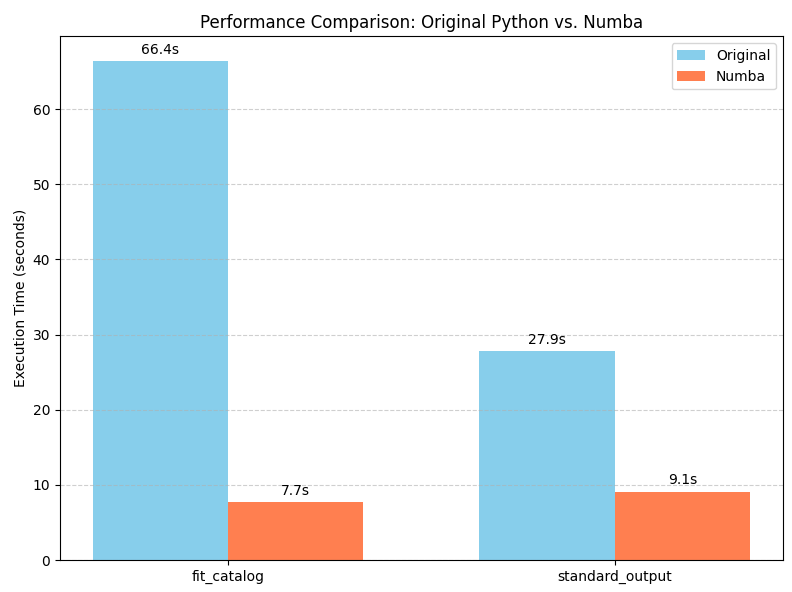
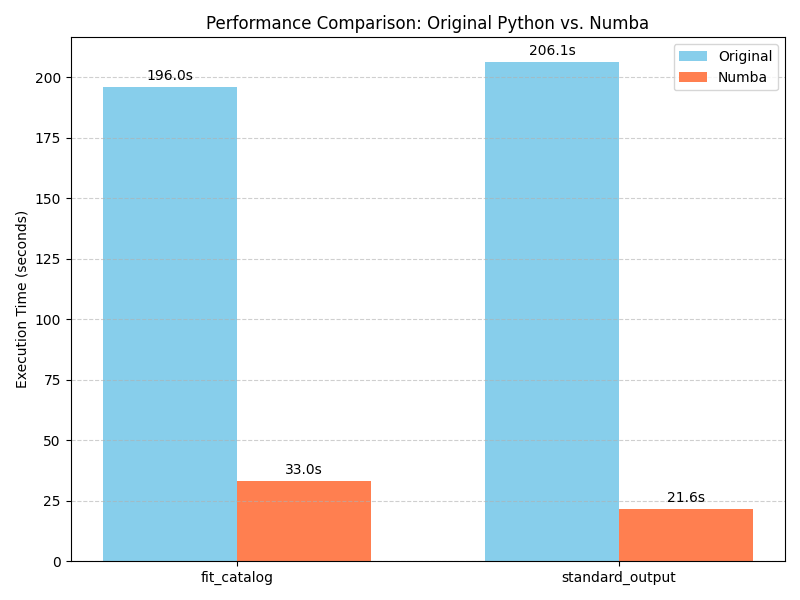
Improved speed for SPS parameters

Changed region(s): [[0.0, 0.0304, 1.0, 1.0], [0.7576, 0.7297, 0.7879, 0.7601], [0.7576, 0.6689, 0.7879, 0.6993]]

diff --git a/eazy/numba_utils.py b/eazy/numba_utils.py
@@ -252,6 +252,337 @@ def template_lsq_numba_covar(
             
     return chi2_i, coeffs_i, fmodel, covar
 
+'''
+@numba.njit(cache=True, fastmath=True)
+def template_lsq_numba_covar(
+    fnu_i: NDArray,
+    efnu_i: NDArray,
+    Ain: NDArray,
+    TEFz: NDArray,
+    zp: NDArray,
+    renorm_t: bool,
+    hess_threshold: float,
+) -> Tuple[float, NDArray, NDArray, NDArray]:
+    """
+    Numba implementation of template_lsq that also returns the correctly scaled
+    covariance matrix.
+    """
+    NTEMP, NFILT = Ain.shape
+    MIN_VALID_FILTERS = 1
+
+    ok_band = (efnu_i / zp > 0) & np.isfinite(fnu_i) & np.isfinite(efnu_i)
+    
+    empty_coeffs = np.zeros(NTEMP, dtype=fnu_i.dtype)
+    empty_covar = np.full((NTEMP, NTEMP), np.nan, dtype=np.float64)
+
+    if np.sum(ok_band) < MIN_VALID_FILTERS:
+        fmodel = np.dot(empty_coeffs, Ain)
+        return np.inf, empty_coeffs, fmodel, empty_covar
+
+    var = efnu_i**2 + (TEFz * np.maximum(fnu_i, 0.0))**2
+    rms = np.sqrt(var)
+    A_ok = Ain[:, ok_band]
+    rms_ok = rms[ok_band]
+    
+    Anorm = np.ones(NTEMP, dtype=fnu_i.dtype)
+    if renorm_t:
+        for i in range(NTEMP):
+            norm_val = np.sqrt(np.sum((A_ok[i, :] / rms_ok)**2))
+            if norm_val > 0:
+                Anorm[i] = norm_val
+
+    A = np.zeros_like(Ain)
+    for i in range(NTEMP):
+        A[i, :] = Ain[i, :] / Anorm[i]
+
+    ok_temp = Anorm > 0
+    if np.sum(ok_temp) == 0:
+        fmodel = np.dot(empty_coeffs, Ain)
+        return np.inf, empty_coeffs, fmodel, empty_covar
+
+    Ax = np.zeros((np.sum(ok_band), NTEMP), dtype=fnu_i.dtype)
+    for i in range(NTEMP):
+        Ax[:, i] = A[i, ok_band] / rms_ok
+        
+    if hess_threshold < 1.0:
+        Hess = np.dot(Ax.T, Ax)
+        temp_indices = np.where(ok_temp)[0]
+        for i_idx, i in enumerate(temp_indices):
+            if not ok_temp[i]: continue
+            for j in temp_indices[i_idx + 1:]:
+                if Hess[i, j] > hess_threshold: ok_temp[j] = False
+
+    active_temps = np.sum(ok_temp)
+    if active_temps == 0:
+        fmodel = np.dot(empty_coeffs, Ain)
+        return np.inf, empty_coeffs, fmodel, empty_covar
+        
+    Ax_fit = np.ascontiguousarray(Ax[:, ok_temp])
+    b = fnu_i[ok_band] / rms_ok
+    coeffs_x, _ = _nnls_numba(Ax_fit.astype(np.float64), b.astype(np.float64))
+
+    coeffs_i = np.zeros(NTEMP, dtype=fnu_i.dtype)
+    coeffs_i[ok_temp] = coeffs_x.astype(fnu_i.dtype)
+    
+    fmodel = np.dot(coeffs_i, A)
+    chi2_i = np.sum(((fnu_i[ok_band] - fmodel[ok_band])**2) / var[ok_band])
+    
+    # Un-scale coefficients
+    coeffs_i /= Anorm
+    fmodel = np.dot(coeffs_i, Ain)
+
+    # Calculate and un-scale the covariance matrix
+    active_mask = coeffs_i > 0
+    n_active = np.sum(active_mask)
+    
+    if n_active > 0:
+        # Use the same templates that were used for fitting
+        Ax_active = Ax_fit  # This is already the correct subset
+        hessian = np.dot(Ax_active.T, Ax_active)
+        hessian += np.eye(n_active) * 1e-8
+        
+        try:
+            covar_scaled = np.linalg.inv(hessian.astype(np.float64))
+            
+            # Un-scale the covariance matrix before returning
+            active_indices = np.where(ok_temp)[0]
+            Anorm_active = Anorm[active_indices]
+            
+            # Fix the indexing issue: use proper matrix indices
+            for r_idx in range(n_active):
+                for c_idx in range(n_active):
+                    r = active_indices[r_idx]
+                    c = active_indices[c_idx]
+                    unscaled_cov = covar_scaled[r_idx, c_idx] / (Anorm_active[r_idx] * Anorm_active[c_idx])
+                    empty_covar[r, c] = unscaled_cov
+        except:
+            # Failed to invert, covar remains NaN
+            pass
+            
+    return chi2_i, coeffs_i, fmodel, empty_covar
+
+@numba.njit(cache=True, fastmath=True)
+def template_lsq_numba_covar(
+    fnu_i: NDArray,
+    efnu_i: NDArray,
+    Ain: NDArray,
+    TEFz: NDArray,
+    zp: NDArray,
+    renorm_t: bool,
+    hess_threshold: float,
+) -> Tuple[float, NDArray, NDArray, NDArray]:
+    """
+    Numba implementation of template_lsq that also returns the correctly scaled
+    covariance matrix.
+    """
+    NTEMP, NFILT = Ain.shape
+    MIN_VALID_FILTERS = 1
+
+    ok_band = (efnu_i / zp > 0) & np.isfinite(fnu_i) & np.isfinite(efnu_i)
+    
+    empty_coeffs = np.zeros(NTEMP, dtype=fnu_i.dtype)
+    empty_covar = np.full((NTEMP, NTEMP), np.nan, dtype=np.float64)
+
+    if np.sum(ok_band) < MIN_VALID_FILTERS:
+        fmodel = np.dot(empty_coeffs, Ain)
+        return np.inf, empty_coeffs, fmodel, empty_covar
+
+    var = efnu_i**2 + (TEFz * np.maximum(fnu_i, 0.0))**2
+    rms = np.sqrt(var)
+    A_ok = Ain[:, ok_band]
+    rms_ok = rms[ok_band]
+    
+    Anorm = np.ones(NTEMP, dtype=fnu_i.dtype)
+    if renorm_t:
+        for i in range(NTEMP):
+            norm_val = np.sqrt(np.sum((A_ok[i, :] / rms_ok)**2))
+            if norm_val > 0:
+                Anorm[i] = norm_val
+
+    A = np.zeros_like(Ain)
+    for i in range(NTEMP):
+        A[i, :] = Ain[i, :] / Anorm[i]
+
+    ok_temp = Anorm > 0
+    if np.sum(ok_temp) == 0:
+        fmodel = np.dot(empty_coeffs, Ain)
+        return np.inf, empty_coeffs, fmodel, empty_covar
+
+    Ax = np.zeros((np.sum(ok_band), NTEMP), dtype=fnu_i.dtype)
+    for i in range(NTEMP):
+        Ax[:, i] = A[i, ok_band] / rms_ok
+        
+    if hess_threshold < 1.0:
+        Hess = np.dot(Ax.T, Ax)
+        temp_indices = np.where(ok_temp)[0]
+        for i_idx, i in enumerate(temp_indices):
+            if not ok_temp[i]: continue
+            for j in temp_indices[i_idx + 1:]:
+                if Hess[i, j] > hess_threshold: ok_temp[j] = False
+
+    active_temps = np.sum(ok_temp)
+    if active_temps == 0:
+        fmodel = np.dot(empty_coeffs, Ain)
+        return np.inf, empty_coeffs, fmodel, empty_covar
+        
+    Ax_fit = np.ascontiguousarray(Ax[:, ok_temp])
+    b = fnu_i[ok_band] / rms_ok
+    coeffs_x, _ = _nnls_numba(Ax_fit.astype(np.float64), b.astype(np.float64))
+
+    coeffs_i = np.zeros(NTEMP, dtype=fnu_i.dtype)
+    coeffs_i[ok_temp] = coeffs_x.astype(fnu_i.dtype)
+    
+    fmodel = np.dot(coeffs_i, A)
+    chi2_i = np.sum(((fnu_i[ok_band] - fmodel[ok_band])**2) / var[ok_band])
+    
+    # Un-scale coefficients
+    coeffs_i /= Anorm
+    fmodel = np.dot(coeffs_i, Ain)
+
+    # Calculate and un-scale the covariance matrix
+    # Use ok_temp (the templates actually used in fitting) instead of active_mask
+    n_active = np.sum(ok_temp)
+    
+    if n_active > 0:
+        # Use the same templates that were used for fitting
+        Ax_active = Ax_fit  # This is already the correct subset
+        hessian = np.dot(Ax_active.T, Ax_active)
+        hessian += np.eye(n_active) * 1e-8
+        
+        try:
+            covar_scaled = np.linalg.inv(hessian.astype(np.float64))
+            
+            # Un-scale the covariance matrix before returning
+            active_indices = np.where(ok_temp)[0]
+            Anorm_active = Anorm[active_indices]
+            
+            # Fix the indexing issue: use proper matrix indices
+            for r_idx in range(n_active):
+                for c_idx in range(n_active):
+                    r = active_indices[r_idx]
+                    c = active_indices[c_idx]
+                    unscaled_cov = covar_scaled[r_idx, c_idx] / (Anorm_active[r_idx] * Anorm_active[c_idx])
+                    empty_covar[r, c] = unscaled_cov
+        except:
+            # Failed to invert, covar remains NaN
+            pass
+  
+    return chi2_i, coeffs_i, fmodel, empty_covar
+
+
+@numba.njit(cache=True, fastmath=True)
+def template_lsq_numba_covar(
+    fnu_i: NDArray,
+    efnu_i: NDArray,
+    Ain: NDArray,
+    TEFz: NDArray,
+    zp: NDArray,
+    renorm_t: bool,
+    hess_threshold: float,
+) -> Tuple[float, NDArray, NDArray, NDArray]:
+    """
+    Numba implementation of template_lsq that also returns the correctly scaled
+    covariance matrix.
+    """
+    NTEMP, NFILT = Ain.shape
+    MIN_VALID_FILTERS = 1
+
+    ok_band = (efnu_i / zp > 0) & np.isfinite(fnu_i) & np.isfinite(efnu_i)
+    
+    empty_coeffs = np.zeros(NTEMP, dtype=fnu_i.dtype)
+    empty_covar = np.full((NTEMP, NTEMP), np.nan, dtype=np.float64)
+
+    if np.sum(ok_band) < MIN_VALID_FILTERS:
+        fmodel = np.dot(empty_coeffs, Ain)
+        return np.inf, empty_coeffs, fmodel, empty_covar
+
+    var = efnu_i**2 + (TEFz * np.maximum(fnu_i, 0.0))**2
+    rms = np.sqrt(var)
+    A_ok = Ain[:, ok_band]
+    rms_ok = rms[ok_band]
+    
+    Anorm = np.ones(NTEMP, dtype=fnu_i.dtype)
+    if renorm_t:
+        for i in range(NTEMP):
+            norm_val = np.sqrt(np.sum((A_ok[i, :] / rms_ok)**2))
+            if norm_val > 0:
+                Anorm[i] = norm_val
+
+    A = np.zeros_like(Ain)
+    for i in range(NTEMP):
+        A[i, :] = Ain[i, :] / Anorm[i]
+
+    ok_temp = Anorm > 0
+    if np.sum(ok_temp) == 0:
+        fmodel = np.dot(empty_coeffs, Ain)
+        return np.inf, empty_coeffs, fmodel, empty_covar
+
+    Ax = np.zeros((np.sum(ok_band), NTEMP), dtype=fnu_i.dtype)
+    for i in range(NTEMP):
+        Ax[:, i] = A[i, ok_band] / rms_ok
+        
+    if hess_threshold < 1.0:
+        Hess = np.dot(Ax.T, Ax)
+        temp_indices = np.where(ok_temp)[0]
+        for i_idx, i in enumerate(temp_indices):
+            if not ok_temp[i]: continue
+            for j in temp_indices[i_idx + 1:]:
+                if Hess[i, j] > hess_threshold: ok_temp[j] = False
+
+    active_temps = np.sum(ok_temp)
+    if active_temps == 0:
+        fmodel = np.dot(empty_coeffs, Ain)
+        return np.inf, empty_coeffs, fmodel, empty_covar
+        
+    Ax_fit = np.ascontiguousarray(Ax[:, ok_temp])
+    b = fnu_i[ok_band] / rms_ok
+    coeffs_x, _ = _nnls_numba(Ax_fit.astype(np.float64), b.astype(np.float64))
+
+    coeffs_i = np.zeros(NTEMP, dtype=fnu_i.dtype)
+    coeffs_i[ok_temp] = coeffs_x.astype(fnu_i.dtype)
+    
+    # Calculate chi2 using scaled templates (A, not Ain)
+    fmodel_scaled = np.dot(coeffs_i, A)
+    chi2_i = np.sum(((fnu_i[ok_band] - fmodel_scaled[ok_band])**2) / var[ok_band])
+    
+    # Un-scale coefficients
+    for i in range(NTEMP):
+        coeffs_i[i] /= Anorm[i]
+    fmodel = np.dot(coeffs_i, Ain)
+
+    # Calculate covariance matrix using the same approach as the original
+    # Only calculate for templates with non-zero coefficients (active in fit)
+    final_active_mask = coeffs_i > 0
+    n_active = np.sum(final_active_mask)
+    
+    if n_active > 0:
+        try:
+            # Use Ax (scaled design matrix) for active templates only
+            Ax_active = Ax[:, final_active_mask]
+            hessian = np.dot(Ax_active.T, Ax_active)
+            
+            # Add regularization for numerical stability
+            hessian += np.eye(n_active) * 1e-8
+            
+            # Invert to get scaled covariance
+            covar_scaled = np.linalg.inv(hessian.astype(np.float64))
+            
+            # Un-scale the covariance matrix
+            active_indices = np.where(final_active_mask)[0]
+            for r_idx in range(n_active):
+                for c_idx in range(n_active):
+                    r = active_indices[r_idx]
+                    c = active_indices[c_idx]
+                    # Un-scale: multiply by normalization factors
+                    unscaled_cov = covar_scaled[r_idx, c_idx] * Anorm[r] * Anorm[c]
+                    empty_covar[r, c] = unscaled_cov
+                    
+        except:
+            # Matrix inversion failed, leave covariance as NaN
+            pass
+  
+    return chi2_i, coeffs_i, fmodel, empty_covar
+'''
 
 @numba.njit(cache=True, fastmath=True)
 def _single_object_rest_fluxes_refit(

diff --git a/eazy/photoz.py b/eazy/photoz.py
@@ -3624,8 +3624,8 @@ class PhotoZ(object):
                     (idx[i::skip],
                      fnu_corr[idx[i::skip],:], efnu_corr[idx[i::skip],:],
                      izbest[idx[i::skip]], self.zbest[idx[i::skip]])
-                     + worker_args_tuple[4:],
-                    threads=skip
+                     + worker_args_tuple[4:], 
+                    kwds={'threads': skip}
                 )
                 for i in range(skip)
             ]
@@ -6695,7 +6695,7 @@ def _fit_at_zbest_group(ix, fnu_corr, efnu_corr, zbest, zp, get_err, fitter, ren
             
     return ix, coeffs_best, fmodel, efmodel, chi2_best, coeffs_draws
 
-def _fit_rest_group(ix, fnu_corr, efnu_corr, izbest, zbest, zp, get_err, fitter, renorm_t, hess_threshold, tempfilt, ARRAY_DTYPE, rf_tempfilt, percentiles, rf_lc, pad_width, max_err, threads):
+def _fit_rest_group(ix, fnu_corr, efnu_corr, izbest, zbest, zp, get_err, fitter, renorm_t, hess_threshold, tempfilt, ARRAY_DTYPE, rf_tempfilt, percentiles, rf_lc, pad_width, max_err, threads=0):
     """
     Standalone function for fitting rest-frame fluxes for individual objects
     """
@@ -7050,7 +7050,7 @@ def template_lsq(fnu_i, efnu_i, Ain, TEFz, zp, ndraws, fitter, renorm_t, hess_th
 
     return chi2_i, coeffs_i, fmodel, coeffs_draw
 
-def _fit_rest_group_numba(ix, fnu_corr, efnu_corr, izbest, zbest, zp, renorm_t, hess_threshold, tempfilt, ARRAY_DTYPE, rf_tempfilt, percentile_sigma_multipliers, rf_lc, pivot, pad_width, max_err, threads):
+def _fit_rest_group_numba(ix, fnu_corr, efnu_corr, izbest, zbest, zp, renorm_t, hess_threshold, tempfilt, ARRAY_DTYPE, rf_tempfilt, percentile_sigma_multipliers, rf_lc, pivot, pad_width, max_err, threads=0):
     """
     Multiprocessing worker for numba-based rest-frame flux calculation.
     """

diff --git a/scripts/run_test.py b/scripts/run_test.py
@@ -134,7 +134,7 @@ if __name__ == "__main__":
 
     phot = Table.read(catalog, hdu='OBJECTS')
     # filter to first 10,000 galaxies
-    phot = phot[:10_000]
+    phot = phot[:100_000]
     flux_col = [phot[f'FLUX_APER_{band}_aper_corr_Jy'] for band in filters]
     flux_err_col = [phot[f'FLUXERR_APER_{band}_loc_depth_10pc_Jy'] for band in filters]
     ids = phot['UNIQUE_ID']
@@ -172,7 +172,7 @@ if __name__ == "__main__":
 
     print("Running Numba version of standard_output...")
     start = time.time()
-    ez.standard_output(use_numba=True, vnorm_type=1)
+    ez.standard_output(use_numba=True, vnorm_type=1, n_proc=4)
     end = time.time()
     numba_output_time = end - start
     
@@ -195,7 +195,7 @@ if __name__ == "__main__":
 
     print("Running original version of standard_output...")
     start = time.time()
-    ez.standard_output(use_numba=False, vnorm_type=1)
+    ez.standard_output(use_numba=False, vnorm_type=1, n_proc=4)
     end = time.time()
     orig_output_time = end - start
 
